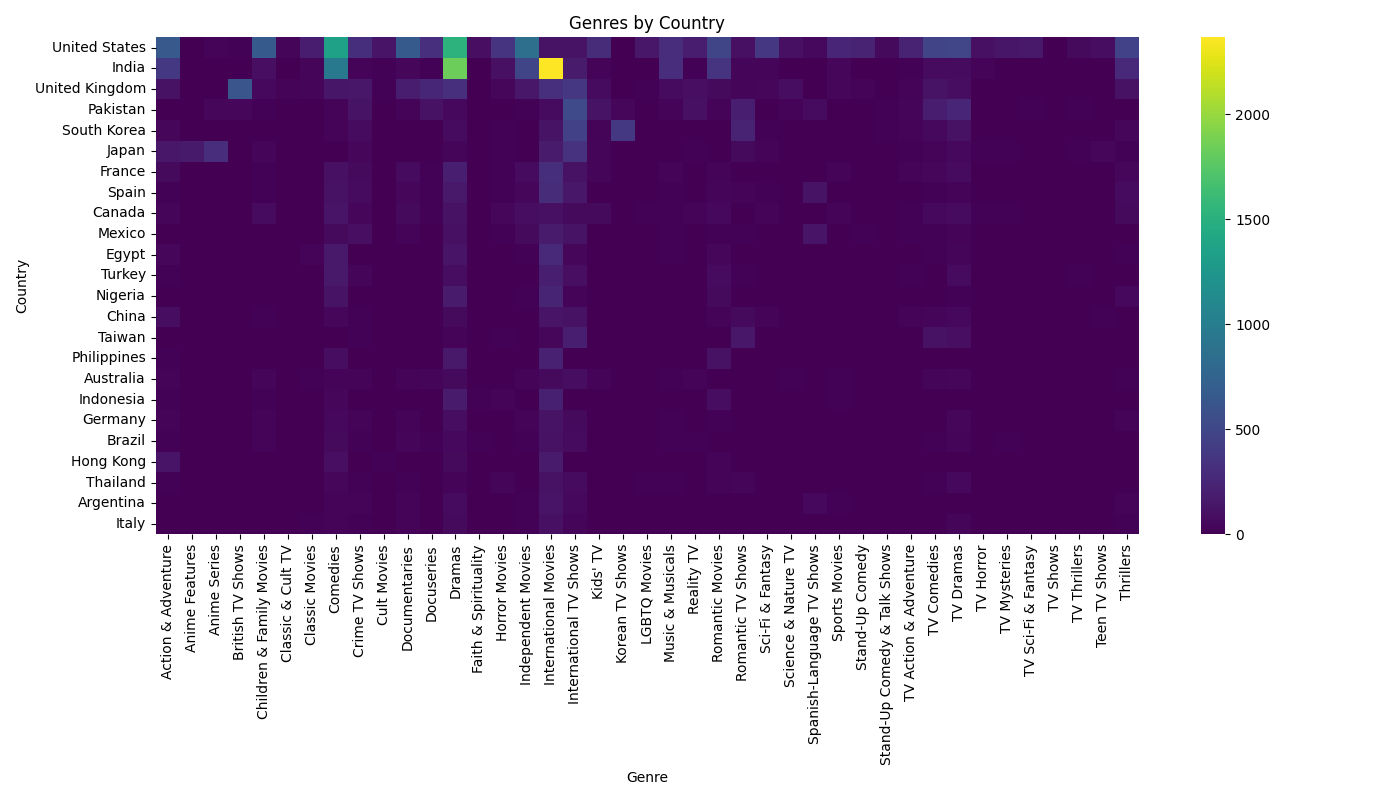
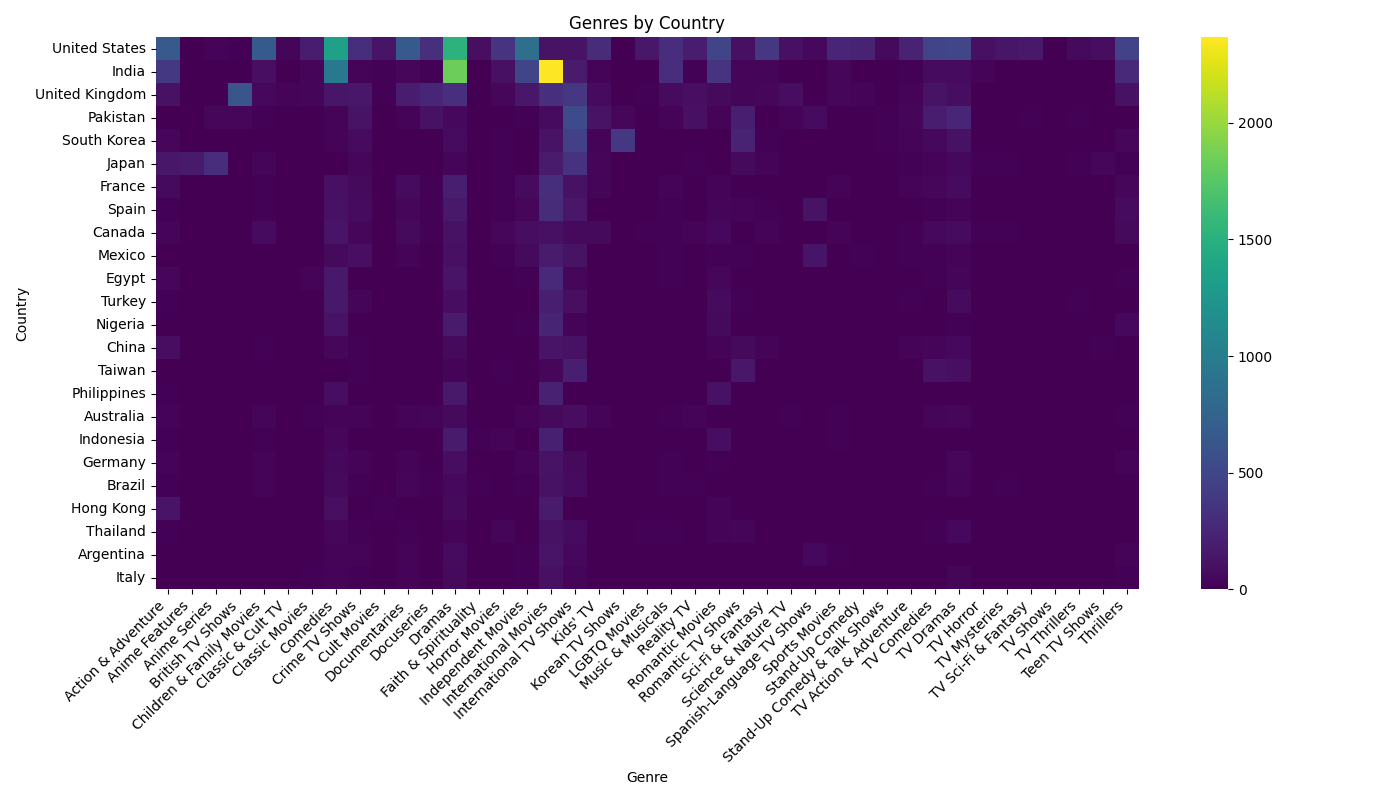
improving graphs

diff --git a/src/analyzer.py b/src/analyzer.py
@@ -311,6 +311,7 @@ class Analyzer:
         # Explode genres since the listen_in column contains genres separated by commas
         df['Genre'] = df['listed_in'].str.split(', ')
         df = df.explode('Genre')
+        df['Genre'] = df['Genre'].str.strip()  # Remove leading/trailing whitespace
 
         print("Dataset before cleaning genres: ", df['Genre'].unique().shape)
         # The dataset covers 42 genres
@@ -394,6 +395,7 @@ class Analyzer:
         plt.xlabel("Country")
         plt.ylabel("Number of Releases")
         plt.legend(title='Content Type')
+        plt.xticks(rotation=45, ha='right')
         plt.tight_layout()
         plt.savefig("results/s2_1_releases_by_country.png")
         plt.clf()  # Clear figure for next plot
@@ -401,17 +403,20 @@ class Analyzer:
         # -----------------------------
         # Plot 2: Proportions of type of content released per country
         # -----------------------------
-        
-        # Normalize to get proportions of content type per country
+
+        # Normalize each row to get proportions
         normalized = releases_by_country.div(releases_by_country.sum(axis=1), axis=0)
 
-        type_proportions_by_country = normalized.loc[ordered_index]
+        # Order countries by proportion of Movies descending
+        type_proportions_by_country = normalized.sort_values(by='Movie', ascending=False)
 
+        # Plot normalized stacked bar chart with this order
         type_proportions_by_country.plot(kind='bar', stacked=True, figsize=(10, 5), colormap='tab20')
         plt.title("Proportion of Content Type by Country")
         plt.xlabel("Country")
         plt.ylabel("Percentage")
         plt.legend(title='Content Type', bbox_to_anchor=(1, 1), loc='upper left')
+        plt.xticks(rotation=45, ha='right')
         plt.tight_layout()
         plt.savefig("results/s2_2_types_by_country.png")
         plt.clf()  # Clear figure for next plot
@@ -440,9 +445,11 @@ class Analyzer:
         plt.xlabel("Country")
         plt.ylabel("Percentage")
         plt.legend(title='Maturity Rating', bbox_to_anchor=(1, 1), loc='upper left')
+        plt.xticks(rotation=45, ha='right')
         plt.tight_layout()
         plt.savefig("results/s2_3_normalized_ratings_by_country.png")
         plt.clf() # Clear figure for next plot
+
 
         # -----------------------------
         # Plot 4: Proportions of Age Appropriateness Content by Country
@@ -451,24 +458,34 @@ class Analyzer:
         # Grouping releases by country and content type
         grouped_rating_by_country = df.groupby(['country', 'age_appropriateness']).size().unstack(fill_value=0)
 
-        # Normalize to get proportions of maturity ratings per country
+        # Normalize to get proportions of age appropriateness per country
         normalized = grouped_rating_by_country.div(grouped_rating_by_country.sum(axis=1), axis=0)
 
-        # Order by the number of releases
-        ordered_index = normalized.loc[grouped_rating_by_country.sum(axis=1).sort_values(ascending=False).index]
+        key_group = 'Adult (17+)'
+        ordered_index = normalized.sort_values(by=key_group, ascending=False)
 
-        # Order rating categories by average size across all countries for better visualization
-        # So generally the smallest one is at the bottom, and largest is at the top
-        grouped_rating_proportions_by_country = ordered_index[ordered_index.mean().sort_values(ascending=True).index]
+        # Order by sesired column stacking order: from least appropriate to most
+        desired_order = [
+            'Not Rated',
+            'Young Children (PG Suggested)',
+            'Young Children',
+            'Older Children (7+)',
+            'Teens (PG Strongly Cautioned)',
+            'Adult (17+)',
+            'All Ages'
+        ]
+        grouped_rating_proportions_by_country = ordered_index[desired_order]
 
         grouped_rating_proportions_by_country.plot(kind='bar', stacked=True, figsize=(12, 6), colormap='tab20')
-        plt.title("Normalized Age Appropriateness by Country")
+        plt.title("Normalized Age Appropriateness by Country (Adult to Child Order)")
         plt.xlabel("Country")
-        plt.ylabel("Percentage")
+        plt.ylabel("Proportion")
         plt.legend(title='Age Appropriateness', bbox_to_anchor=(1, 1), loc='upper left')
+        plt.xticks(rotation=45, ha='right')
         plt.tight_layout()
         plt.savefig("results/s2_4_normalized_grouped_ratings_by_country.png")
         plt.clf() # Clear figure for next plot
+
 
 
     def genres_by_country_visualizations(self, df):
@@ -489,6 +506,7 @@ class Analyzer:
         plt.title("Genres by Country")
         plt.xlabel("Genre")
         plt.ylabel("Country")
+        plt.xticks(rotation=45, ha='right')
         plt.tight_layout()
         plt.savefig("results/s2_5_genres_by_country.png")
         plt.clf() # Clear figure for next plot
@@ -510,6 +528,7 @@ class Analyzer:
         plt.title("Genre Groups by Country")
         plt.xlabel("Genre Group")
         plt.ylabel("Country")
+        plt.xticks(rotation=45, ha='right')
         plt.tight_layout()
         plt.savefig("results/s2_6_genre_groups_by_country.png")
         plt.clf() # Clear figure for next plot
@@ -528,6 +547,7 @@ class Analyzer:
         plt.title('TV Show Sub-genres by Country')
         plt.xlabel('TV Show Sub-Genre')
         plt.ylabel('Country')
+        plt.xticks(rotation=45, ha='right')
         plt.tight_layout()
         plt.savefig("results/s2_7_tv_show_subgenres_by_country.png")
         plt.clf() # Clear figure for next plot
